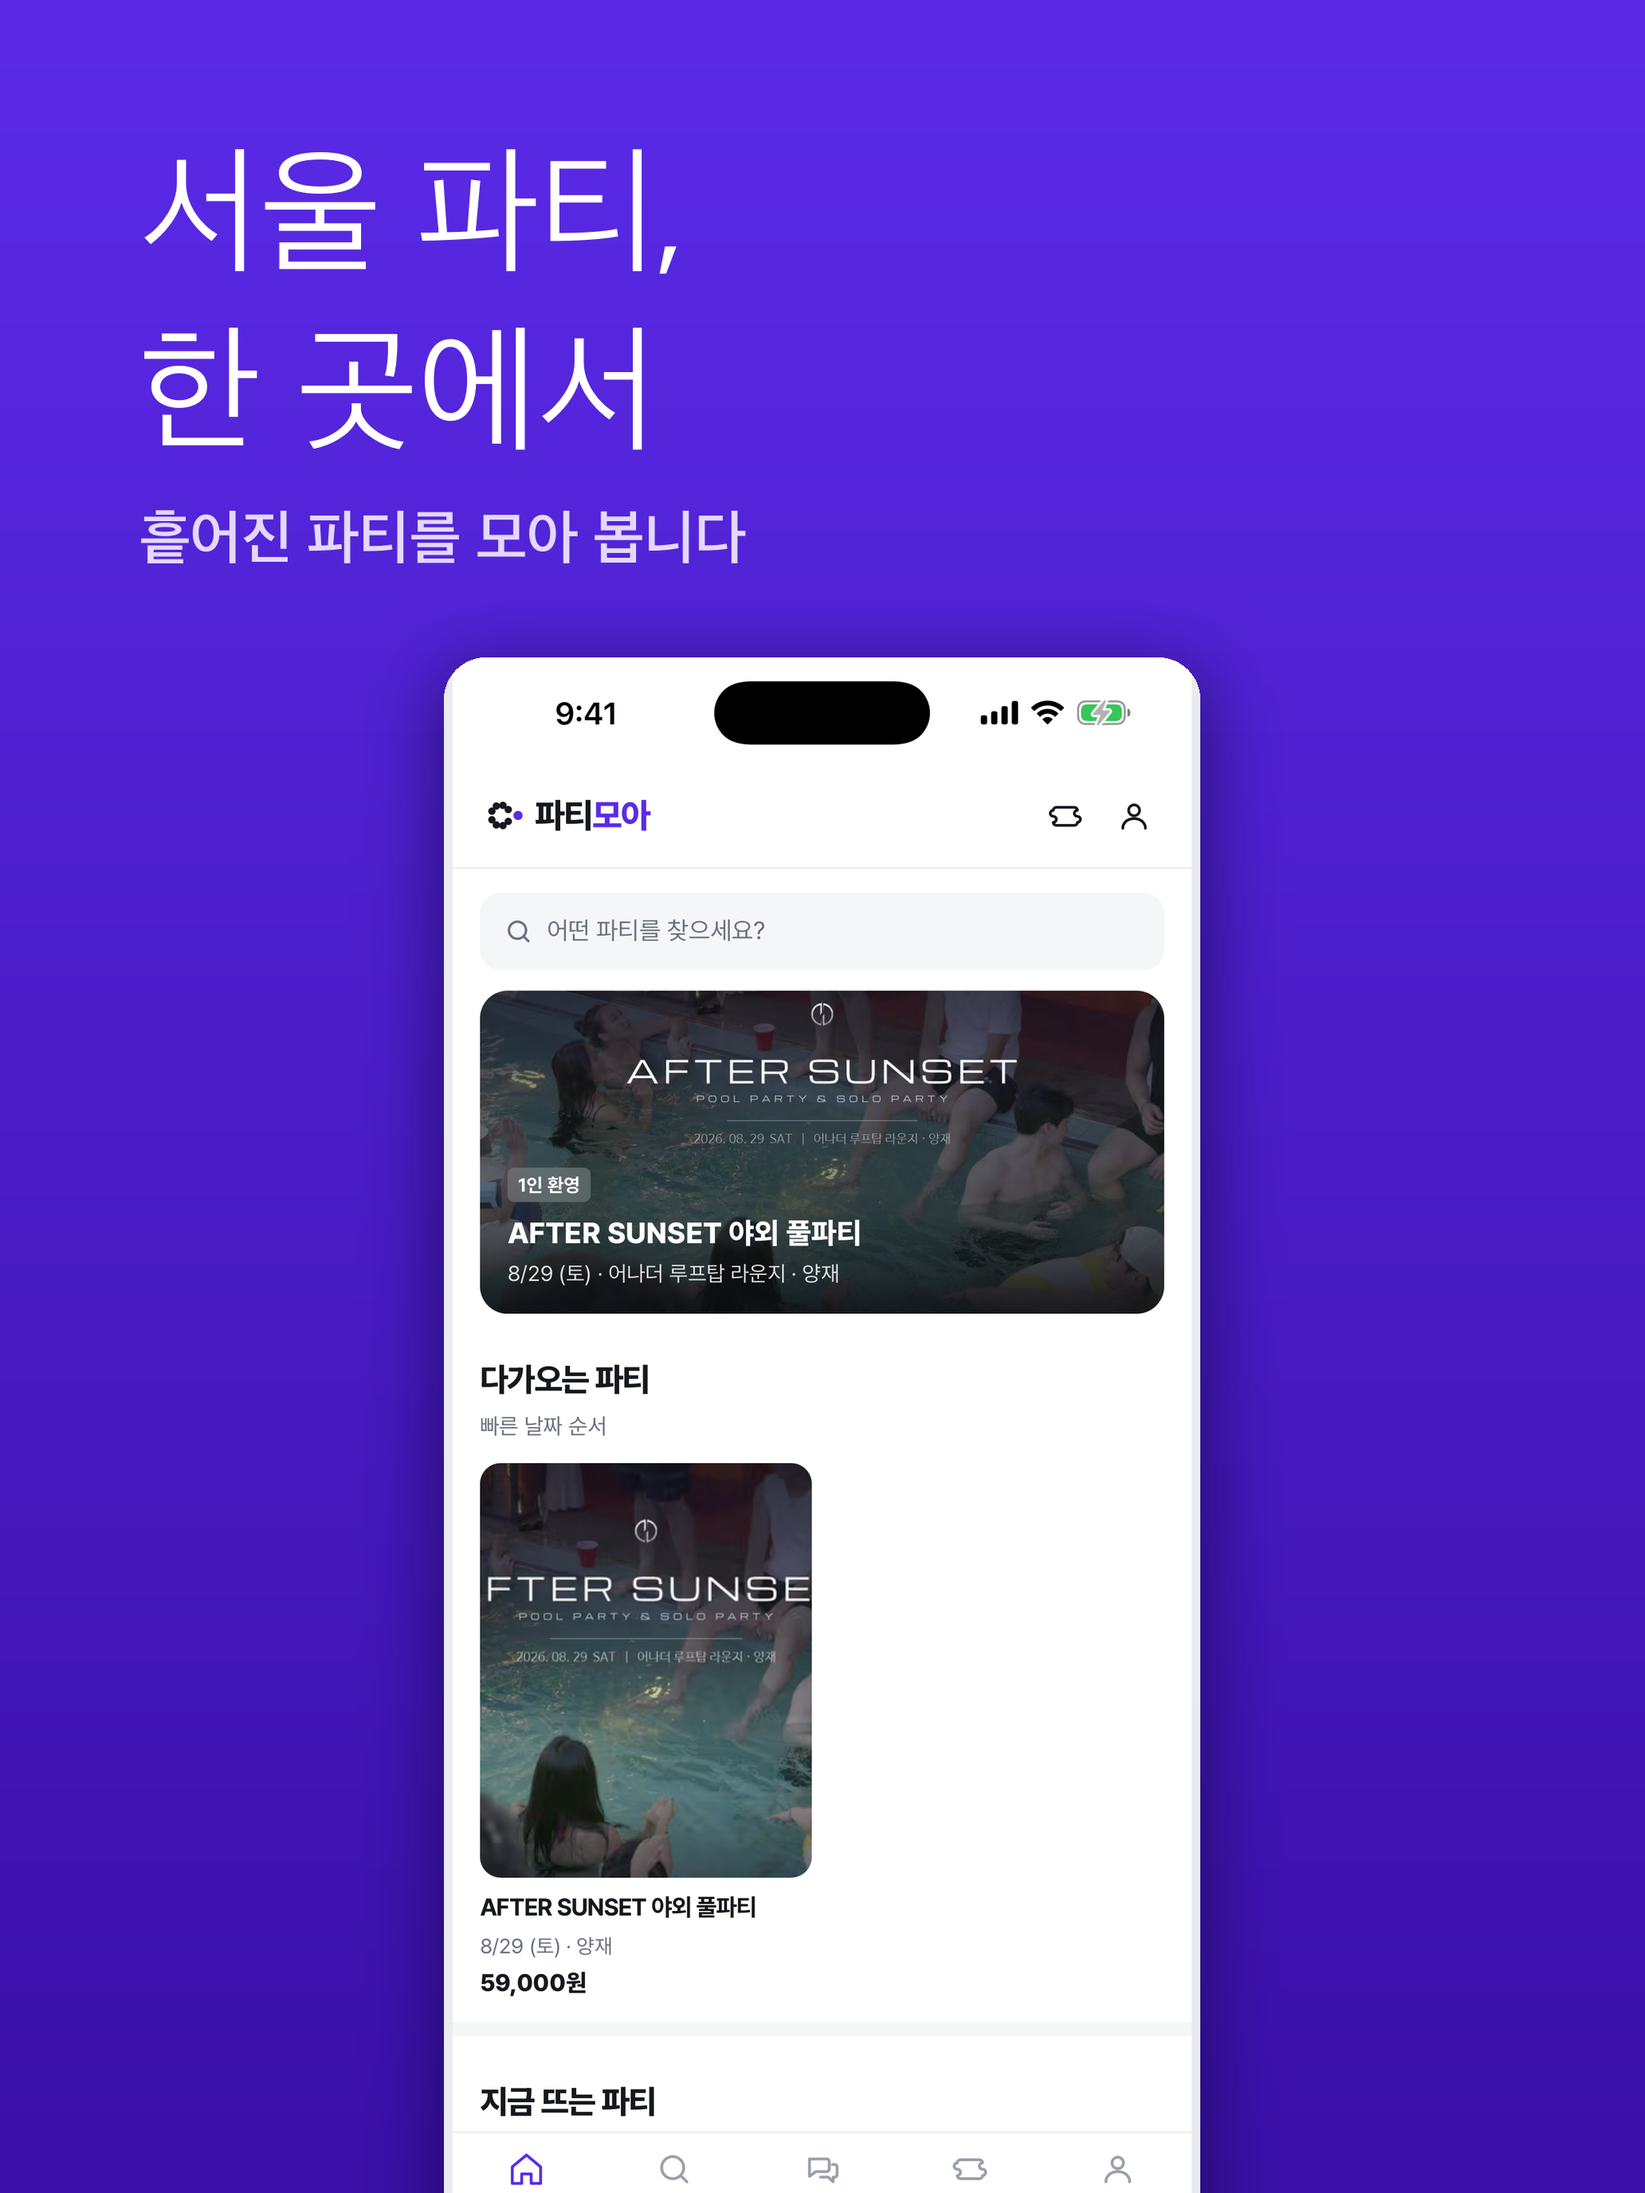
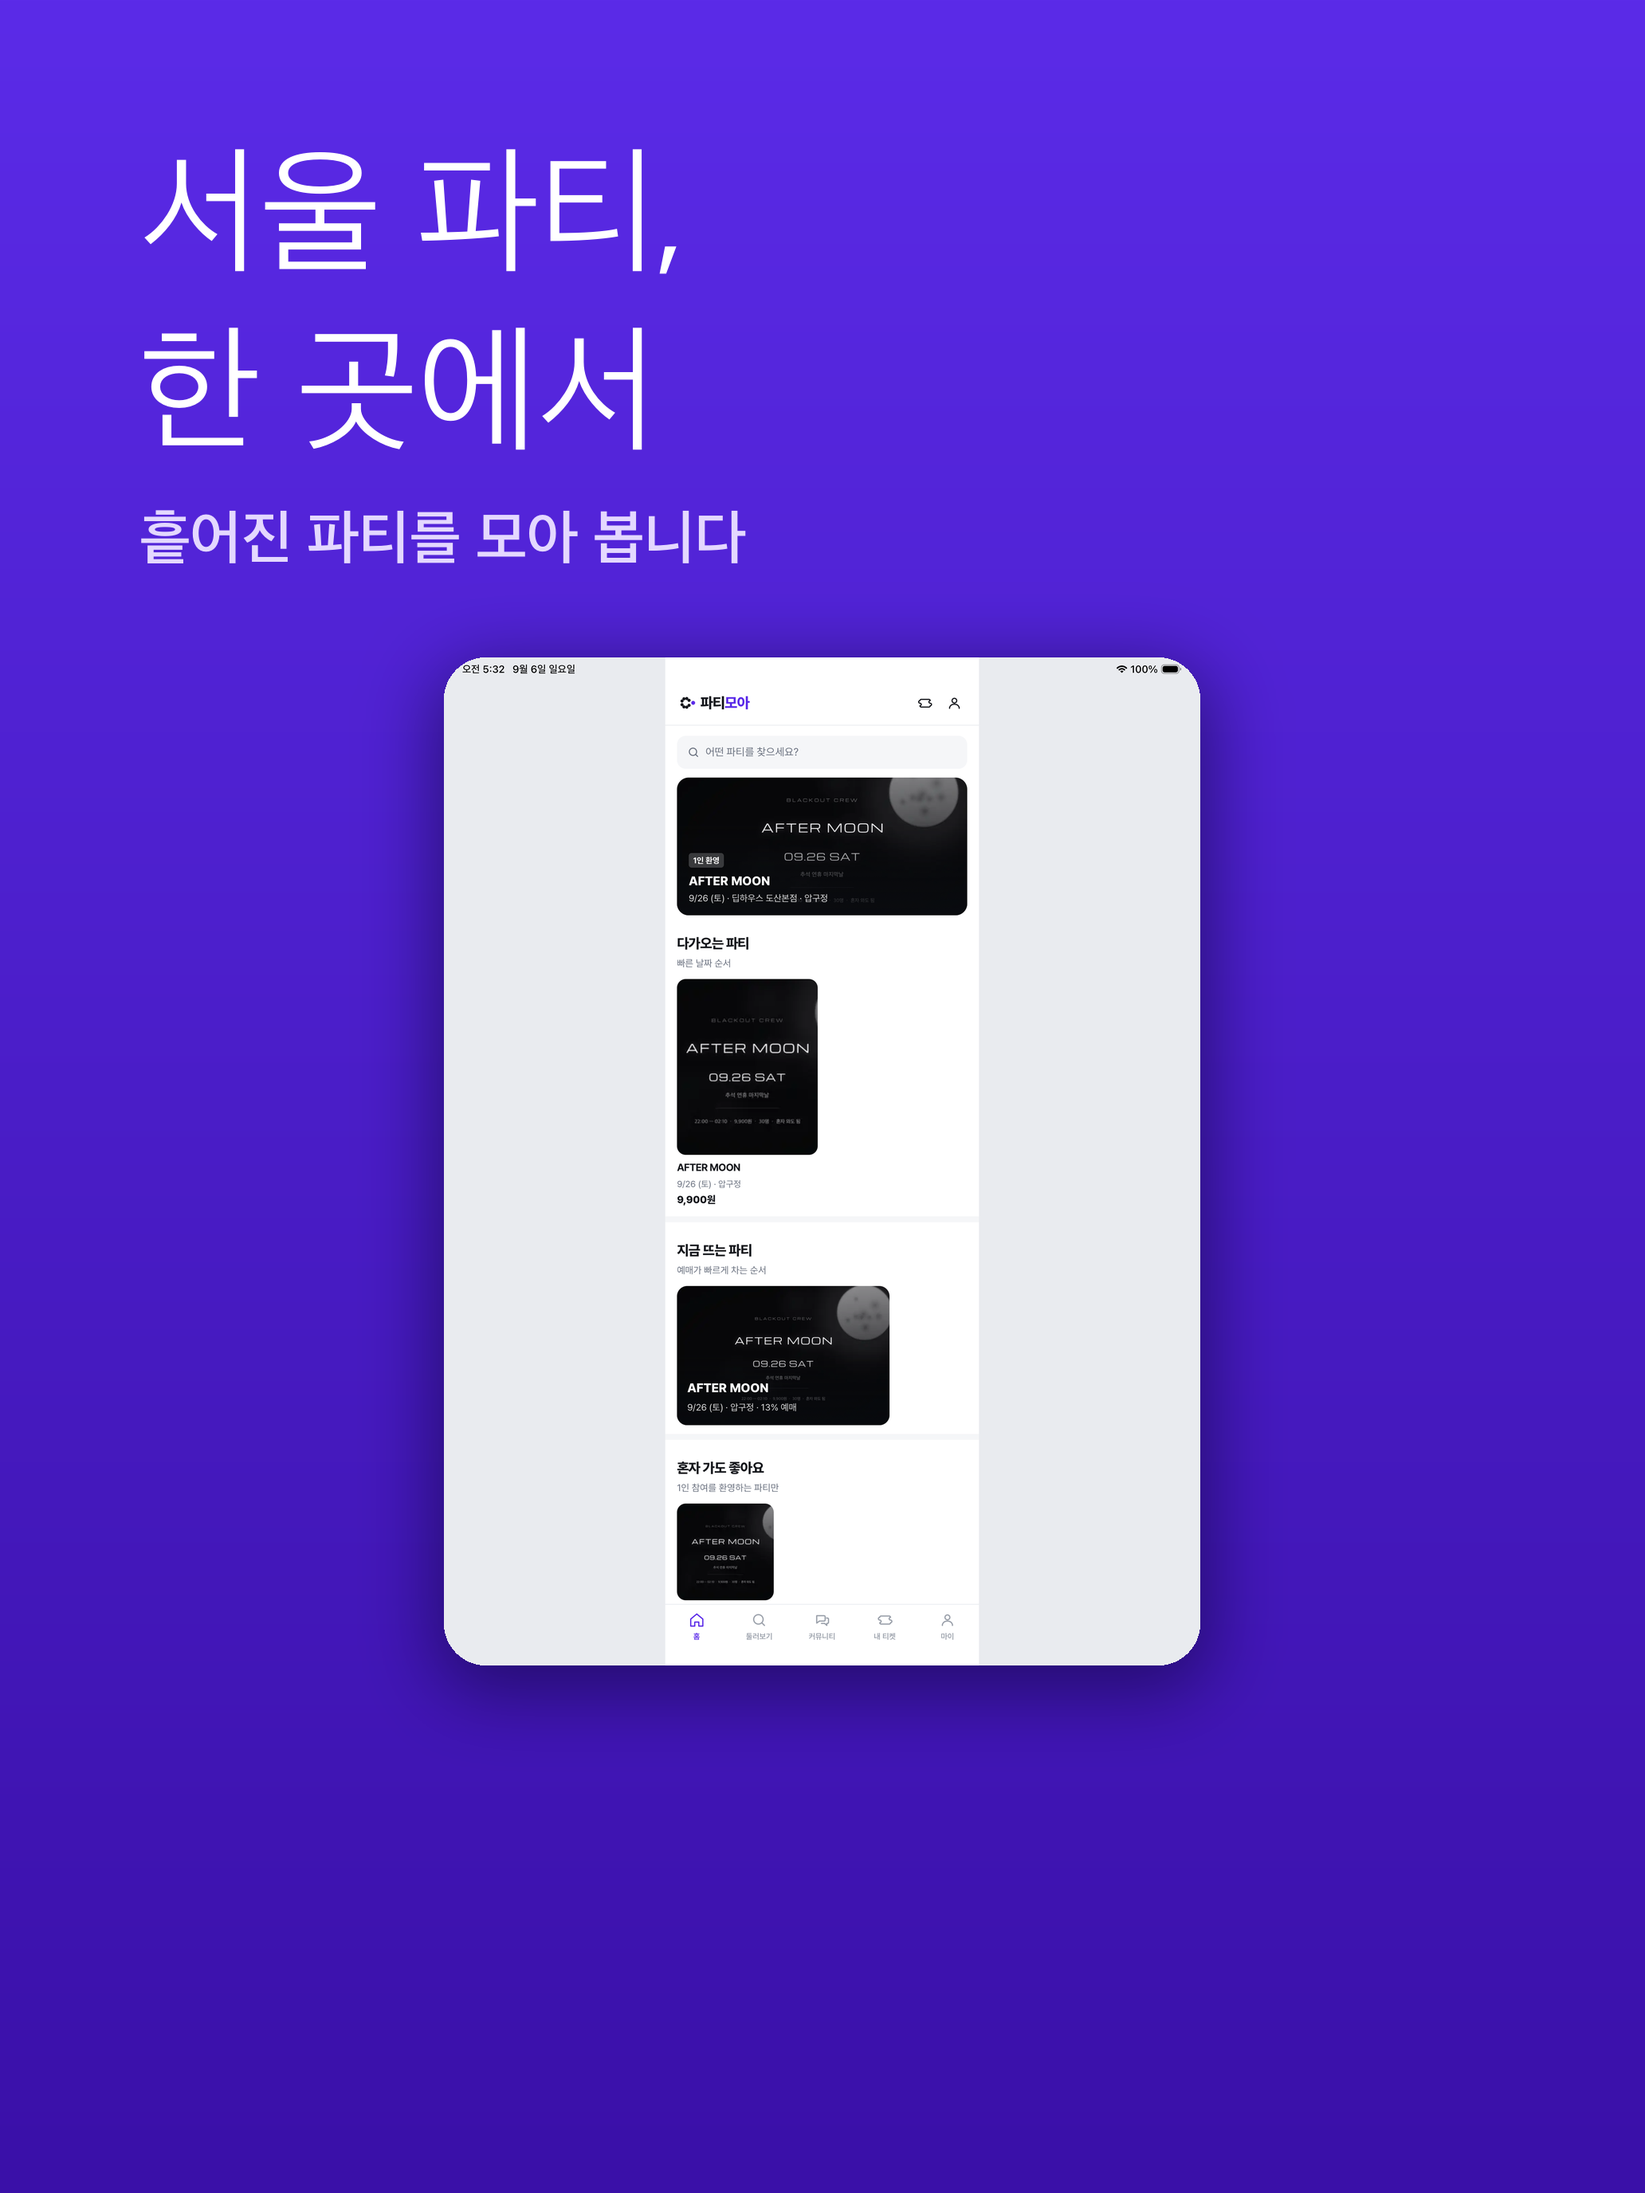
build(ios): 빌드 2 · 아이패드 스크린샷을 진짜 아이패드에서 찍는다
CURRENT_PROJECT_VERSION 1 → 2. 4.8 수정과 아이패드 지원이 이 빌드로 나간다.

**upload/ipad13 이 아이패드 화면이 아니었다.** 규격만 2064x2752 이고
안에 그려진 건 아이폰 목업이었다 — 아이폰 원본(screenshots/)을 아이패드
캔버스에 얹어 만들었기 때문이다. 아이패드를 지원하지 않을 때 App Store
Connect 가 탭을 띄우면 막힐까 봐 만들어 둔 임시방편이었고, 스크립트
주석에도 그렇게 적혀 있었다.

지금은 아이패드를 지원하므로 그대로 두면 "그 기기에서 찍은 화면이
아니다" 로 걸린다(2.3.3). iPad Pro 13-inch 시뮬레이터에서 직접 찍었다.
내용도 낡아 있었다 — AFTER SUNSET · 59,000원, 이미 끝난 파티였다.

  screenshots-ipad/   원본 (2064x2752, 시뮬레이터 그대로)
  upload/ipad13/      문구를 얹은 것

**05 는 라인업이다.** 내 티켓은 예매가 없으면 빈 화면이고 커뮤니티는
테스트 글뿐이라 둘 다 못 쓴다. 라인업은 실제 내용이 있고 이 앱만의
화면이다 — BHO / LYNN / LII / AROS / TS.

ExportOptions.plist 를 넣는다. Release 가 수동 서명이라 자동으로 두면
아카이브는 되는데 내보낼 때 프로파일을 못 골라 멈춘다.

Changed region(s): [[0.2481, 0.3125, 0.7442, 1.0]]

diff --git a/scripts/store-shots.py b/scripts/store-shots.py
@@ -7,10 +7,11 @@
 
   python3 scripts/store-shots.py
 
-  screenshots/     원본 (6.9인치 1320x2868)
-  screenshots-65/  원본 (6.5인치 1242x2688)
+  screenshots/       원본 (6.9인치 1320x2868)
+  screenshots-65/    원본 (6.5인치 1242x2688)
+  screenshots-ipad/  원본 (13인치 아이패드 2064x2752)
         ↓
-  upload/69/  upload/65/   올릴 것
+  upload/69/  upload/65/  upload/ipad13/   올릴 것
 
 **원본은 안 건드린다.** 문구를 고치고 다시 돌리면 되게 둔다.
 """
@@ -38,6 +39,17 @@ SHOTS = [
     # 안 되는 걸 스토어에 걸 수는 없어서 오프라인 티켓으로 뒀다.
     # 키가 들어가면 05-alerts 를 다시 찍어 이 줄을 바꾸면 된다
     ("05-offline",  "신호가 끊겨도\n티켓은 보입니다",  "입구에서 예매번호를 못 보는 일이 없게"),
+]
+
+# 아이패드는 원본이 따로다. 화면이 다르니 문구도 그 화면에 맞춘다.
+# **05 는 라인업이다.** 내 티켓은 예매가 없으면 빈 화면이고, 커뮤니티는
+# 테스트 글뿐이라 둘 다 스토어에 걸 수 없다
+SHOTS_IPAD = [
+    ("01-home",     "서울 파티,\n한 곳에서",      "흩어진 파티를 모아 봅니다"),
+    ("02-explore",  "혼자 가도\n괜찮습니다",      "1인 환영 파티만 따로 모아서"),
+    ("03-party",    "라인업부터\n입금 계좌까지",  "필요한 건 한 화면에"),
+    ("04-booking",  "자리는\n서버가 잡습니다",    "마감된 자리가 다시 팔리지 않아요"),
+    ("05-lineup",   "누가 언제\n트는지까지",      "타임테이블을 미리 봅니다"),
 ]
 
 
@@ -127,26 +139,34 @@ def compose(src_path, head, sub, out_path, canvas_size=None):
     return out_path
 
 
-# 아이패드는 **아이폰 전용 앱이면 안 올려도 된다.** 빌드가 버전에 붙기
-# 전에는 App Store Connect 가 탭을 다 띄워서, 막힐 때만 쓰라고 만들어 둔다.
+# 13인치 아이패드. 아이패드를 지원하면서(TARGETED_DEVICE_FAMILY "1,2")
+# **이 규격이 없으면 제출 자체가 안 된다.**
+#
+# 예전에는 아이폰 원본을 이 캔버스에 얹어서 만들었다. 그러면 아이패드
+# 칸에 아이폰 목업이 들어가고, 심사에서 "그 기기에서 찍은 화면이 아니다"
+# 로 걸린다(2.3.3). 지금은 아이패드 시뮬레이터에서 직접 찍는다.
 IPAD_13 = (2064, 2752)
 
 
 if __name__ == "__main__":
-    for src_dir, out_dir in [("screenshots", "upload/69"), ("screenshots-65", "upload/65"),
-                             ("screenshots", "upload/ipad13")]:
+    # (원본, 내보낼 곳, 문구, 캔버스). 아이패드만 원본과 문구가 따로다
+    JOBS = [
+        ("screenshots",      "upload/69",     SHOTS,      None),
+        ("screenshots-65",   "upload/65",     SHOTS,      None),
+        ("screenshots-ipad", "upload/ipad13", SHOTS_IPAD, IPAD_13),
+    ]
+    for src_dir, out_dir, shots, canvas in JOBS:
         s = os.path.join(STORE, src_dir)
         o = os.path.join(STORE, out_dir)
         if not os.path.isdir(s):
             print(f"건너뜀 — {s} 없음")
             continue
         os.makedirs(o, exist_ok=True)
-        for name, head, sub in SHOTS:
+        for name, head, sub in shots:
             src = os.path.join(s, f"{name}.png")
             if not os.path.exists(src):
                 print(f"  없음 {src}")
                 continue
-            p = compose(src, head, sub, os.path.join(o, f"{name}.png"),
-                        IPAD_13 if out_dir.endswith("ipad13") else None)
+            p = compose(src, head, sub, os.path.join(o, f"{name}.png"), canvas)
             im = Image.open(p)
             print(f"  {out_dir}/{name}.png  {im.width}x{im.height}")
